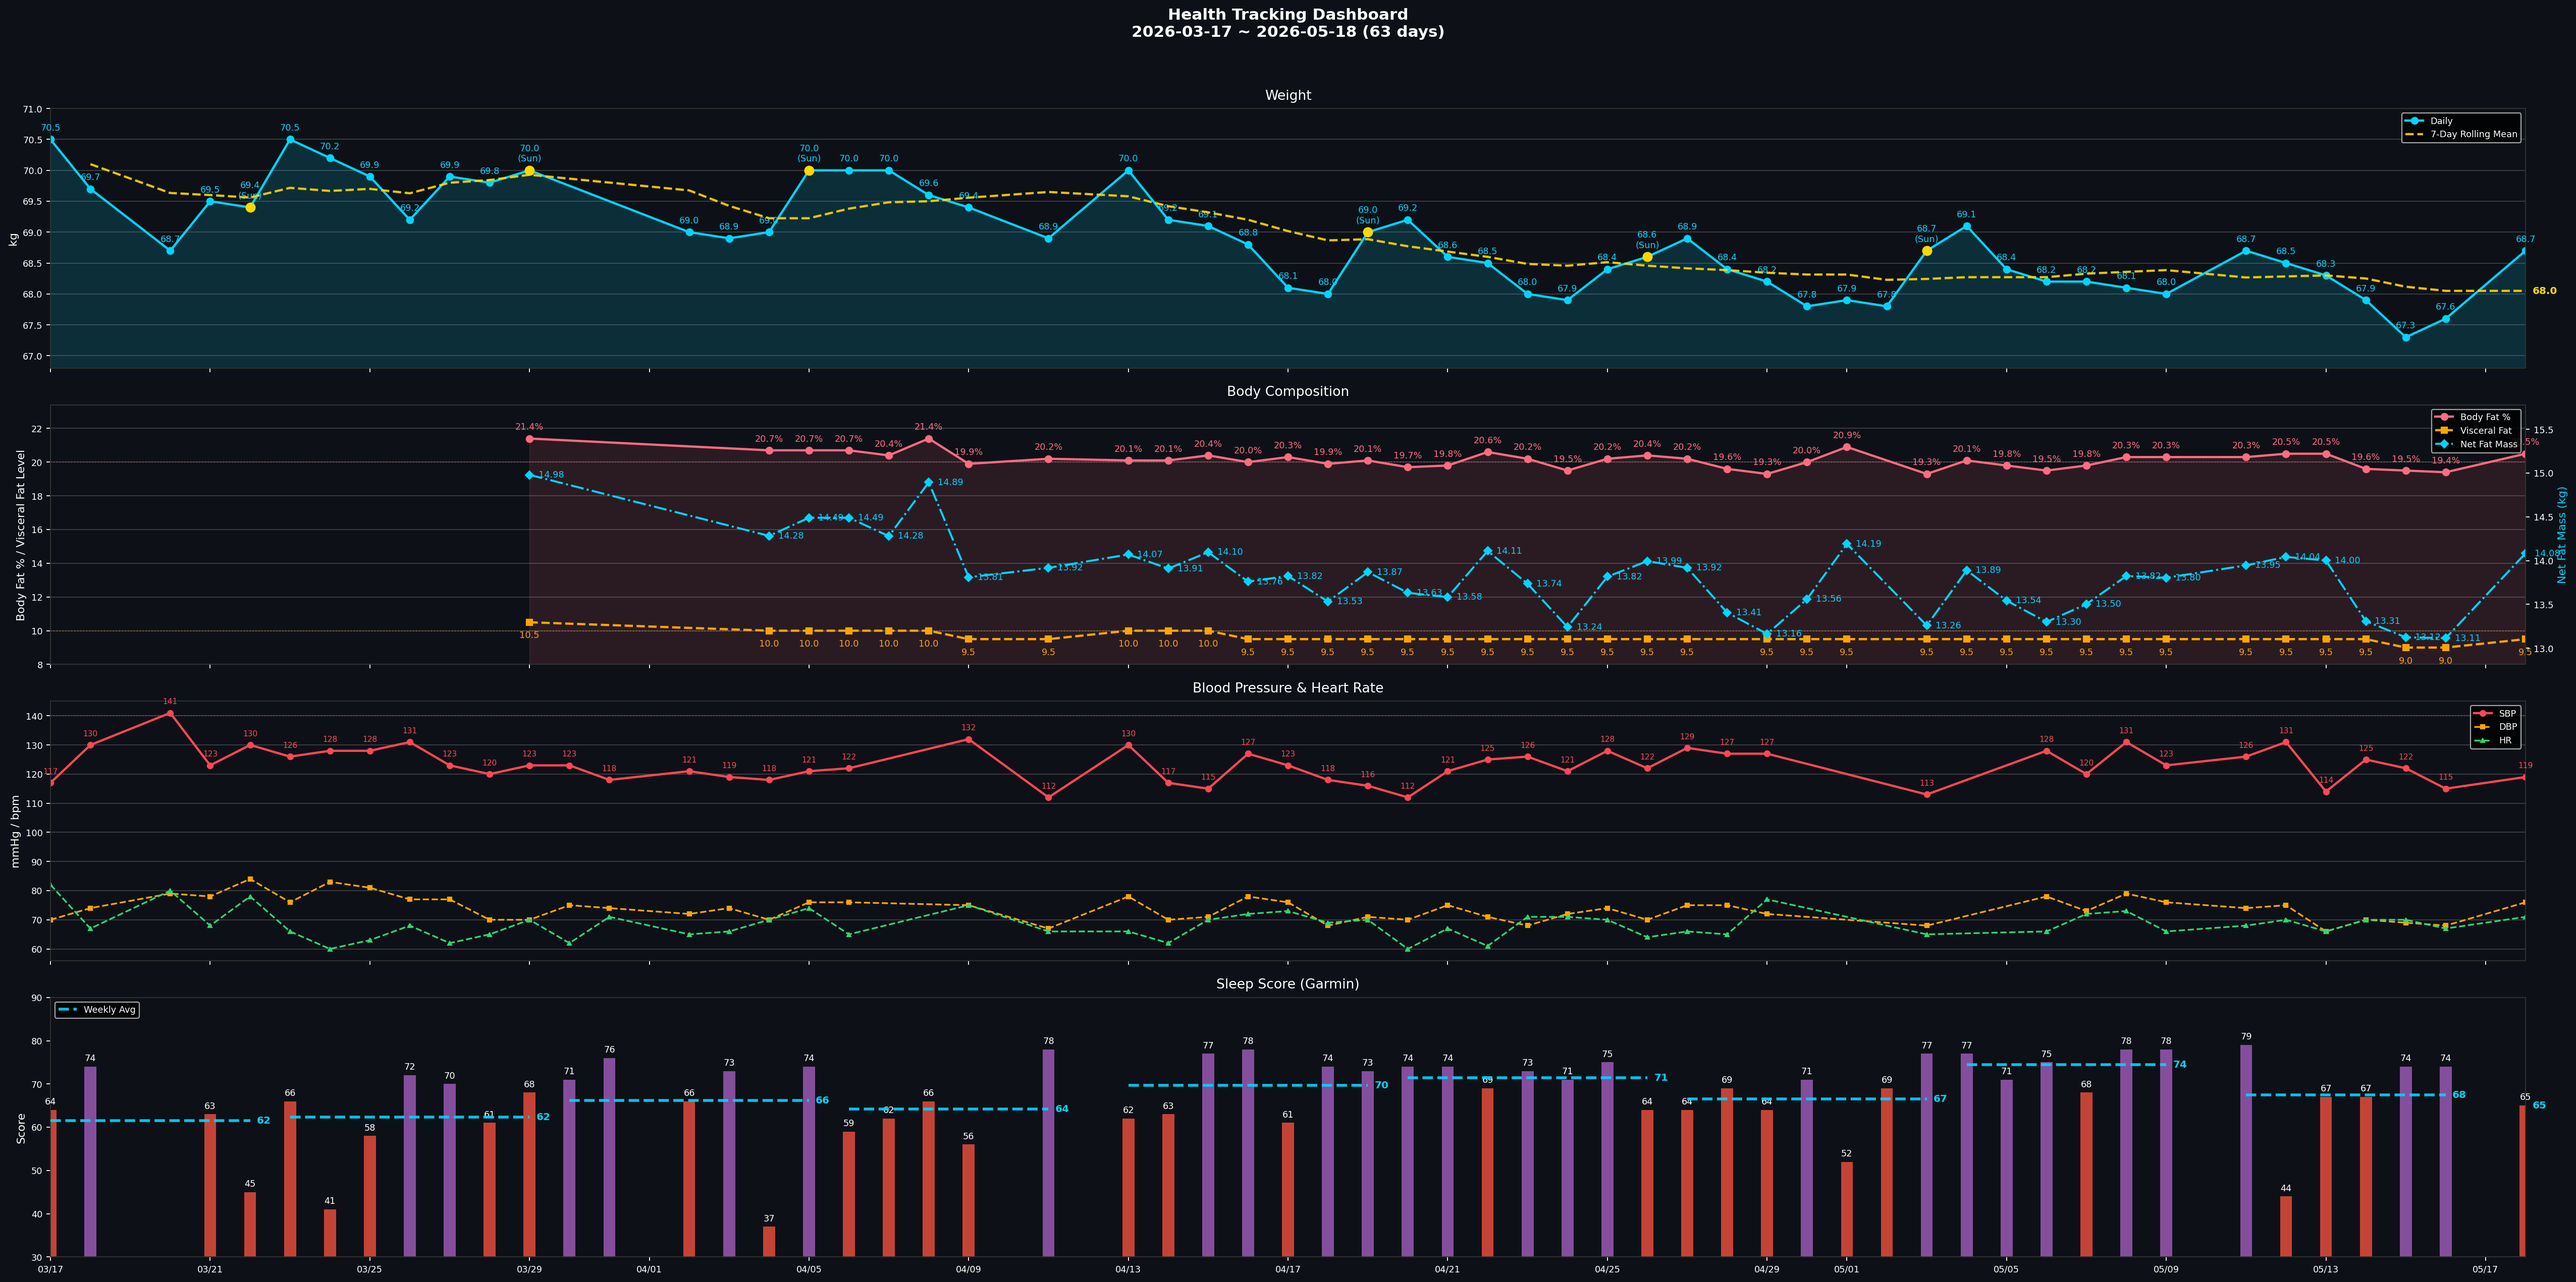
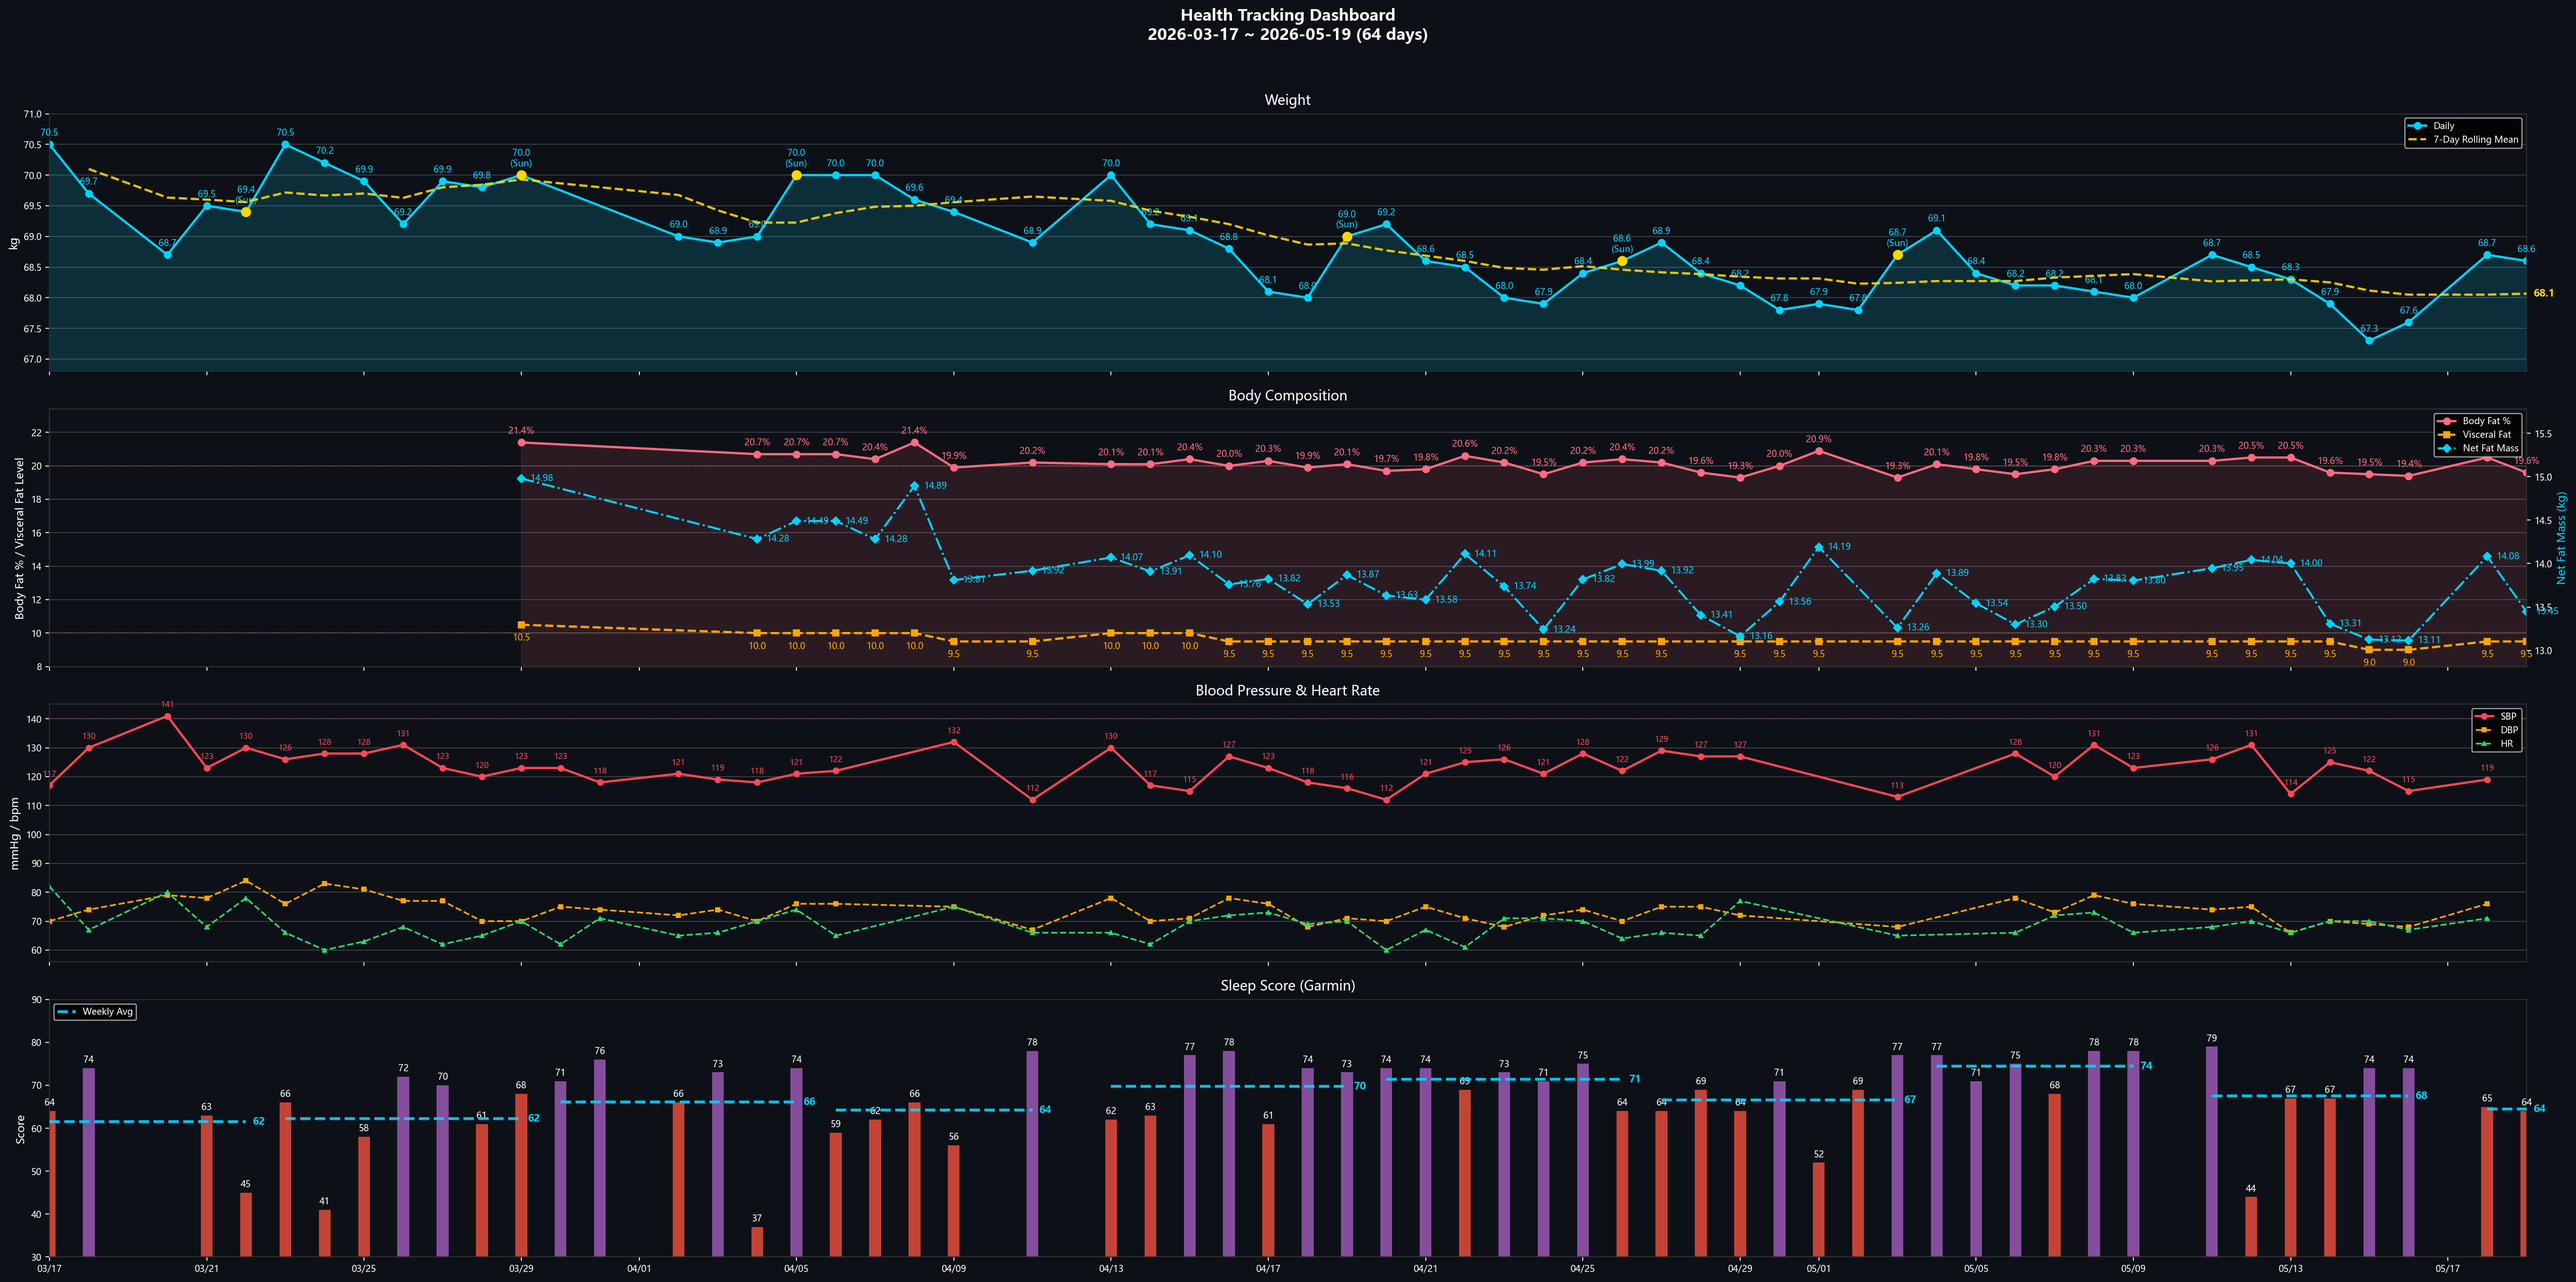
Daily 2026-05-19：68.6kg / 19.6% / VFL 9.5；TST 5h 1m / Score 64 / BB 62；BP 未測；SpO2 nadir 83% 紅旗持續
- 體重 vs 5/15 +1.3 kg（5/16-5/18 空窗反彈，週末未控制）
- TST 5h 1m 嚴重不足 + SpO2 nadir 83% 連續未改善（5/13–5/19 有資料 5 晚全部 < 88%）
- 昨日飲水 1.5L 偏低，已回寫 Garmin Connect
- 身體信號：清；今日預設菜單 + 餐後散步

diff --git a/data.js b/data.js
@@ -9,8 +9,13 @@ window.HC_DATA = {
     lede:    { en: "Sleep, BP, lipids, uric acid — one shared metabolic root. Lifestyle stacks first; medication only after lifestyle plateaus.",
                zh: "睡眠、血壓、血脂、尿酸——共享同一個代謝根源。生活方式介入優先，等到效果平台期再考慮藥物。" },
     progressLbl: { en: "Weight progress · 70 → 65 kg", zh: "體重進度 · 70 → 65 公斤" },
-    progressMeta: { en: "Day 63 · 67.6 kg · Sat official (5/16)", zh: "第 63 天 · 67.6 公斤 · 週六正式（5/16）" },
-    startDate: { en: "Start date · Mar 17, 2026 · Last sync 5/18", zh: "起始日期 · 2026 年 3 月 17 日 · 最後同步 5/18" },
+<<<<<<< HEAD
+    progressMeta: { en: "Day 64 · 67.6 kg · Sat official (5/16)", zh: "第 64 天 · 67.6 公斤 · 週六正式（5/16）" },
+    startDate: { en: "Start date · Mar 17, 2026 · Last sync 5/19", zh: "起始日期 · 2026 年 3 月 17 日 · 最後同步 5/19" },
+=======
+    progressMeta: { en: "Day 64 · 68.0 kg · Sat official (5/9)", zh: "第 64 天 · 68.0 公斤 · 週六正式（5/9）" },
+    startDate: { en: "Start date · Mar 17, 2026 · Last sync 5/19", zh: "起始日期 · 2026 年 3 月 17 日 · 最後同步 5/19" },
+>>>>>>> dda29ea (Daily 2026-05-19：68.6kg / 19.6% / VFL 9.5；TST 5h 1m / Score 64 / BB 62；BP 未測；SpO2 nadir 83% 紅旗持續)
     startWeight: 70,
     targetWeight: 65,
     currentWeight: 67.6,
@@ -38,14 +43,23 @@ window.HC_DATA = {
   markers: [
     {
       sys: "heart", name: { en: "Blood Pressure", zh: "血壓" },
+<<<<<<< HEAD
       val: "122/70", unit: "mmHg",
       delta: { en: "W20 weekly avg (6 days) · target met (<130) · last 119/76 (5/18)", zh: "W20 週均（6 天）· 已達標 (<130) · 最新 119/76 (5/18)" },
+=======
+      val: "124/71", unit: "mmHg",
+      delta: { en: "W20 weekly avg (5 days) · target met (<130) · last 122/69 (5/15)", zh: "W20 週均（5 天）· 已達標 (<130) · 最新 122/69 (5/15)" },
+>>>>>>> dda29ea (Daily 2026-05-19：68.6kg / 19.6% / VFL 9.5；TST 5h 1m / Score 64 / BB 62；BP 未測；SpO2 nadir 83% 紅旗持續)
       cadence: { en: "Daily · weekly avg", zh: "每日 · 週均" },
       status: "ok",
     },
     {
       sys: "sleep", name: { en: "Sleep Score", zh: "睡眠分數" },
-      val: "65", unit: "Garmin",
+<<<<<<< HEAD
+      val: "64", unit: "Garmin",
+=======
+      val: "64", unit: "Garmin",
+>>>>>>> dda29ea (Daily 2026-05-19：68.6kg / 19.6% / VFL 9.5；TST 5h 1m / Score 64 / BB 62；BP 未測；SpO2 nadir 83% 紅旗持續)
       delta: { en: "5/4 · OSA flag: T90 18.4% (severe)", zh: "5/4 · OSA 紅旗：T90 18.4%（重度）" },
       cadence: { en: "Daily · Garmin", zh: "每日 · Garmin" },
       status: "warn",
@@ -850,14 +864,24 @@ window.HC_DATA = {
   tracker: {
     // [SBP, DBP] — gaps filled with prior reading
     bp: [
-      [113,68], [113,68], [113,68], [128,78], [120,73], [131,79], [123,76], [126,74], [131,75], [114,66], [125,70], [122,69], [115,68], [119,76],
+      [128,78], [128,78], [128,78], [120,73], [131,79], [123,76], [126,74], [131,75], [114,66], [125,70], [122,69], [115,68], [119,76], [119,76],
     ],
     // 4/21–5/4 daily weight (kg)
-    weight: [68.7, 69.1, 68.4, 68.2, 68.2, 68.1, 68, 68.7, 68.5, 68.3, 67.9, 67.3, 67.6, 68.7],
+    weight: [69.1, 68.4, 68.2, 68.2, 68.1, 68, 68.7, 68.5, 68.3, 67.9, 67.3, 67.6, 68.7, 68.6],
     // Garmin Sleep Score
-    sleep:  [77, 77, 71, 75, 68, 78, 78, 79, 44, 67, 67, 74, 74, 65],
+    sleep:  [77, 71, 75, 68, 78, 78, 79, 44, 67, 67, 74, 74, 65, 64],
     // Body Battery waking
-    bb:     [54, 49, 47, 56, 47, 37, 48, 55, 36, 42, 34, 51, 63, 48],
+    bb:     [49, 47, 56, 47, 37, 48, 55, 36, 42, 34, 51, 63, 48, 62],
+=======
+      [113,68], [113,68], [113,68], [113,68], [128,78], [120,73], [131,79], [123,76], [126,74], [131,75], [114,66], [125,70], [122,69], [122,69],
+    ],
+    // 4/21–5/4 daily weight (kg)
+    weight: [67.8, 68.7, 69.1, 68.4, 68.2, 68.2, 68.1, 68, 68.7, 68.5, 68.3, 67.9, 67.3, 68.6],
+    // Garmin Sleep Score
+    sleep:  [69, 77, 77, 71, 75, 68, 78, 78, 79, 44, 67, 67, 74, 64],
+    // Body Battery waking
+    bb:     [41, 54, 49, 47, 56, 47, 37, 48, 55, 36, 42, 34, 51, 62],
+>>>>>>> dda29ea (Daily 2026-05-19：68.6kg / 19.6% / VFL 9.5；TST 5h 1m / Score 64 / BB 62；BP 未測；SpO2 nadir 83% 紅旗持續)
     // SpO2 nightly nadir % (last 14 days, parallel to bp/weight/sleep/bb).
     // Earlier nights null until sync_data_js.py backfills; banner only uses trailing values.
     spo2Nadir: [null, null, null, null, null, 84, 79, 87, 85, 84, 84, 86, 82, 84],

diff --git a/reviews/daily/2026-05-19.md b/reviews/daily/2026-05-19.md
@@ -1,0 +1,113 @@
+# 晨間健康紀錄 — 2026-05-19
+
+*3 分鐘。起床後立即完成。記錄，不分析。*
+
+---
+
+## 體重
+
+**今日：68.6 kg**
+**體脂率：19.6 %**
+**內臟脂肪等級：9.5**
+
+*每週六早晨為正式紀錄（排尿後、進食前；連 5 個工作日後、週末大餐前的真實低點）。其他日可選填。*
+
+*vs 5/15 67.3 kg / 19.5% / 9.0 → +1.3 kg / +0.1% / +0.5 VFL（5/16-5/18 三日空窗，反彈訊號明顯，週末未控制）。本週六 5/23 正式紀錄為下一驗證點。*
+
+---
+
+## 血壓（晨間）
+
+*起床後 1 小時內，上完廁所、進食前。坐下安靜 5 分鐘，連量兩次取第二次。*
+
+| 次數 | 收縮壓 | 舒張壓 | 心率 |
+|------|--------|--------|------|
+| 第一次 | — | — | — |
+| 第二次 | — | — | — |
+
+*今日未測量。*
+
+---
+
+## 睡眠狀態
+
+**Garmin 偵測入睡：** 22:41
+**實際上床：**
+**實際起床：** 03:42
+**總睡眠時長：** 5h 1m
+**深眠：** 62 分｜**REM：** 40 分
+**中途醒來：** 0 次
+**Garmin Sleep Score：** 64 / 100
+**Garmin Body Battery 起床值：** 62
+**主觀恢復感：** 3 / 5
+**入睡 latency：** 自動估算
+
+### SpO2 夜間最低（7 晚趨勢）
+
+| 日期 | -6 | -5 | -4 | -3 | -2 | -1 | 今晨 |
+|------|----|----|----|----|----|----|------|
+| 日期 | 05-13 | 05-14 | 05-15 | 05-16 | 05-17 | 05-18 | 05-19 |
+| 最低 % | 82 | 84 | 83 | — | — | 87 | 83 |
+
+**今晨日均 SpO2：** 96%
+**< 88% 連續晚數：** ≥ 14（5/13–5/19 有資料 5 晚全部 < 88%；OSA 紅旗門檻已超 4 倍）
+
+**SpO2 全夜圖：** ![](spo2/spo2_desat_2026-05-19.png)
+**SpO2 趨勢圖：** ![](spo2/spo2_desat_trend.png)
+**SpO2 多晚 Overlay（rolling 7 晚）：** ![](spo2/spo2_overlay_2026-05-13_to_2026-05-19_elapsed.png)
+
+*起床時間 03:42 / 總時長 5h 1m — TST 嚴重不足；雖中途醒 0 次且 BB 62 為近期高點，但 SpO2 nadir 83% + TST < 6h 為複合風險。*
+
+---
+
+## 昨日回顧
+
+**實際飲水量：** 1.5 L ⚠（連續低於 2.5L 目標；已回寫 Garmin Connect）
+**昨日活動消耗：** —（5/18 Garmin daily summary 未列活動段）
+**昨日步數：** 9,473
+**昨日 Na / K / Na-K ratio：** — / — / —（5/18 飲食檔未填）
+
+---
+
+## 身體信號
+
+*任何張力、疼痛、疲勞、異常 — 或「清」。記位置、性質、強度。*
+
+| 部位 | 性質 | 強度 (0-10) |
+|------|------|-------------|
+| 清 | — | — |
+
+---
+
+## 今日計畫速記
+
+- [ ] 飲水目標：2.8 L（錨點 09:30 ≥1.0L / 13:30 ≥2.0L / 17:00 截止 2.5L）
+- [ ] 補充品（核心，2026-05-11 v2）：
+  - 早餐（06:00）：D3 3000 IU + K2 MK-7 180 mcg + L-Citrulline 4 g + 益生菌
+  - 抹茶 5 g 06:30 空腹
+  - 午餐前 30 min：Psyllium 5 g + 300 mL 水
+  - 晚餐前 30 min：Psyllium 5 g + 300 mL 水
+  - 18:00 點心：白煮蛋 ×2 + 無糖豆漿 380 mL
+  - 晚餐後：魚油 ×4（拆 18:30 ×2 + 19:30 ×2）
+  - 睡前（21:00）：鎂甘胺酸 400 mg + 酸櫻桃 1000-2000 mg + Glycine 3 g
+  - 茶飲：洛神花 ×2 杯（早 + 14:00 前）
+  - 食物層：南瓜籽 30 g（15:30）+ 菇蕈 100-130 g/天
+- [ ] 飲食：預設菜單（便當飯減半，晚餐 20:00 後不再進食）
+- [ ] 運動：餐後散步 15 min ×2（午 / 晚），預設模式
+- [ ] 活動度/伸展（09:30 + 20:30 兩次錨點）
+- [ ] Wind-down（20:00 燈光降 + 螢幕濾鏡，液體截止）
+- [ ] 上床 21:30 / 熄燈 22:00（TST 目標 7h+）
+
+---
+
+### 💡 PT 建議
+
+1. **體重三項齊升（5/15 → 5/19）**：67.3 → 68.6 kg（+1.3 kg）/ 體脂 19.5 → 19.6% / VFL 9.0 → 9.5 — 5/16-5/18 空窗期反彈明顯，週末未控制是主因；本週六 5/23 為下一正式紀錄點，今日起回到「飯減半 + 餐後散步」雙錨點。
+2. **OSA 第 14 晚以上紅旗 + TST 5h 1m 雙警**：SpO2 nadir 83% 連續未改善 + 起床過早（03:42）導致 TST 嚴重不足；PSG 預約若尚未完成，本週剩餘 4 個工作日內必須敲定 — 此為當前所有指標中最高優先級。
+3. **血壓今日未測**：請至少明日（5/20）恢復連續紀錄，週二是 weekly trend 校準的中段關鍵點。
+4. **昨日飲水 1.5L 偏低**：今日 09:30 必達 1.0L 為硬指標，13:30 ≥ 2.0L 為第二錨點；高尿酸 baseline 加上夜間 SpO2 desats（缺氧增加 UA 生成）使飲水成為僅次於 OSA 的核心變數。
+5. **身體信號清 + 主觀恢復 3/5**：客觀數據（Sleep Score 64 / BB 62）與主觀感受對齊，但 5h 1m TST 在「沒中醒」前提下仍只能達到 3/5 — 系統性訊號指向 OSA 通氣品質才是天花板。
+
+---
+
+*Filed: reviews/daily/2026-05-19.md*

diff --git a/reviews/weekly/2026-W21.md b/reviews/weekly/2026-W21.md
@@ -31,9 +31,9 @@
 
 |  | 一 | 二 | 三 | 四 | 五 | 六 | 日 |
 |--|----|----|----|----|----|----|-----|
-| 體重 (kg) | 68.7 | | | | | | |
-| 體脂率 (%) | 20.5 | | | | | | |
-| 內臟脂肪 | 9.5 | | | | | | |
+| 體重 (kg) | 68.7 | 68.6 | | | | | |
+| 體脂率 (%) | 20.5 | 19.6 | | | | | |
+| 內臟脂肪 | 9.5 | 9.5 | | | | | |
 
 **本週正式讀數（週六早晨）：** _____ kg｜體脂率：_____%｜內臟脂肪：_____
 **上週正式讀數（週六早晨）：** _____ kg｜體脂率：_____%｜內臟脂肪：_____
@@ -46,7 +46,7 @@
 | 日期 | 收縮壓 | 舒張壓 | 心率 |
 |------|--------|--------|------|
 | 5/18 (一) | 119 | 76 | 71 |
-| 5/19 (二) | | | |
+| 5/19 (二) | — | — | — |
 | 5/20 (三) | | | |
 | 5/21 (四) | | | |
 | 5/22 (五) | | | |
@@ -64,7 +64,7 @@
 | 日期 | 就寢 | 起床 | 中途醒 | Sleep Score | Body Battery | 主觀恢復 |
 |------|------|------|--------|-------------|--------------|----------|
 | 5/18 (一) | 21:20 | 03:24 | 無 | 65 | 48 | 3 |
-| 5/19 (二) | | | | | | |
+| 5/19 (二) | 22:41 | 03:42 | 0 | 64 | 62 | 3 |
 | 5/20 (三) | | | | | | |
 | 5/21 (四) | | | | | | |
 | 5/22 (五) | | | | | | |
@@ -99,9 +99,9 @@
 
 | 信號（部位+性質） | 出現天數 | 平均強度 | 趨勢（↑↓→） | 備註 |
 |-------------------|----------|----------|-------------|------|
-| | | | | |
+| 清 | 1 | — | — | 05-19 |
 
-**反覆出現（≥ 3 天）：** 無 / _____
+**反覆出現（≥ 3 天）：** 無
 
 *同一信號連續 3 天以上 → 考慮就醫或調整訓練。*
 
@@ -122,7 +122,7 @@
 
 | 日期 | 運動內容（含組數/時間） |
 |------|------------------------|
-| | |
+| 05-19 (二) | walking 16.1 min + cycling 4.9 min（主動 157 kcal） |
 
 ---
 

diff --git a/reports/daily-garmin/2026-05-19.md b/reports/daily-garmin/2026-05-19.md
@@ -1,0 +1,35 @@
+# Garmin 每日摘要 — 2026-05-19
+
+## 睡眠
+- 就寢：22:41｜起床：03:42
+- 總時長：5h 1m
+- 深眠：62 分｜REM：40 分
+- Sleep Score：64
+- Body Battery 起床值：62
+
+## 靜息心率
+- RHR：59.0 bpm
+
+## 壓力
+- 日均：21
+
+## 步數
+- 總計：5,766
+
+## SpO2
+- 日均：96.0%
+- 最低：83%
+
+## 活動
+| 時段 | 類型 | 距離 | 時長 | 平均 HR | 最大 HR | 主動 kcal | 含 BMR |
+|------|------|------|------|---------|---------|-----------|--------|
+| 05:54 | walking | 1.66 km | 16.1 min | 133 | 156 | 114 | 135 |
+| 08:59 | cycling | 0.97 km | 4.9 min | 133 | 144 | 43 | 50 |
+| **小計** | 2 段 | **2.63 km** | **21.0 min** | — | — | **157** | **185** |
+
+## 飲水
+- 實際：0.00 L
+- 目標：2.00 L
+- 運動流汗耗水：0.30 L
+
+_Source: data/garmin/2026-05-19.json (gitignored)_

diff --git a/reports/daily-garmin/2026-05-18.md b/reports/daily-garmin/2026-05-18.md
@@ -1,0 +1,27 @@
+# Garmin 每日摘要 — 2026-05-18
+
+## 睡眠
+- 就寢：21:20｜起床：03:24
+- 總時長：5h 54m
+- 深眠：100 分｜REM：25 分
+- Sleep Score：65
+- Body Battery 起床值：48
+
+## 靜息心率
+- RHR：59.0 bpm
+
+## 壓力
+- 日均：24
+
+## 步數
+- 總計：9,473
+
+## SpO2
+- 日均：97.0%
+- 最低：87%
+
+## 飲水
+- 實際：— （Garmin Connect 未紀錄，請於 check-in 手動輸入）
+- 目標：2.00 L
+
+_Source: data/garmin/2026-05-18.json (gitignored)_
